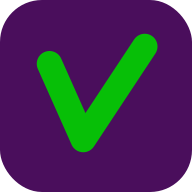
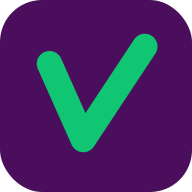
feat: accent #10c673 on vyskar.com and app.vyskar.com
The brand accent changes from #07bf07 to #10c673: theme colors, hover
and border shades, the button glow, and the logo check mark in favicons,
app icons and iOS splash screens (recolored from the original files).

Changed region(s): [[0.1875, 0.1562, 0.8438, 0.8125]]

diff --git a/frontend/src/index.css b/frontend/src/index.css
@@ -14,10 +14,10 @@
   --color-dim: #9e9bc4;
 
   /* Brand: green accent, same as the landing page. */
-  --color-accent: #07bf07; /* 6.39:1 on page, 7.15:1 on card */
-  --color-accent-hover: #2fd22f; /* button text on it 8.76:1 */
-  --color-on-accent: #2a0835; /* dark purple text on green, 7.15:1; white on green fails (2.48:1) */
-  --color-plum: #4a0e5c; /* surface only; white 13.92:1, green 5.61:1 on it */
+  --color-accent: #10c673; /* 7.06:1 on page, 7.89:1 on card */
+  --color-accent-hover: #34d68a; /* button text on it 9.4:1 */
+  --color-on-accent: #2a0835; /* dark purple text on green, 7.89:1; white on green fails (2.25:1) */
+  --color-plum: #4a0e5c; /* surface only; white 13.92:1, green 6.2:1 on it */
 
   --font-display: "Unbounded", sans-serif;
   --font-sans: "DM Sans", system-ui, sans-serif;
@@ -67,17 +67,17 @@ a:hover {
 
 @keyframes vy-lift {
   0% {
-    box-shadow: 0 0 0 0 rgba(7, 191, 7, 0), 0 0 0 0 rgba(0, 0, 0, 0), 0 0 0 0 rgba(0, 0, 0, 0);
+    box-shadow: 0 0 0 0 rgba(16, 198, 115, 0), 0 0 0 0 rgba(0, 0, 0, 0), 0 0 0 0 rgba(0, 0, 0, 0);
     transform: scale(1);
   }
   15%,
   60% {
-    box-shadow: 0 0 22px 2px rgba(7, 191, 7, 0.28), 0 0 60px 6px rgba(0, 0, 0, 0.7),
+    box-shadow: 0 0 22px 2px rgba(16, 198, 115, 0.28), 0 0 60px 6px rgba(0, 0, 0, 0.7),
       0 0 18px 2px rgba(0, 0, 0, 0.5);
     transform: scale(1.035);
   }
   100% {
-    box-shadow: 0 0 0 0 rgba(7, 191, 7, 0), 0 0 0 0 rgba(0, 0, 0, 0), 0 0 0 0 rgba(0, 0, 0, 0);
+    box-shadow: 0 0 0 0 rgba(16, 198, 115, 0), 0 0 0 0 rgba(0, 0, 0, 0), 0 0 0 0 rgba(0, 0, 0, 0);
     transform: scale(1);
   }
 }

diff --git a/landing/src/index.css b/landing/src/index.css
@@ -13,11 +13,11 @@
   --color-muted: #b4b1d6;
   --color-dim: #9e9bc4;
   /* Brand: green accent, plum surface. Contrast checked against ink, card and plum. */
-  --color-accent: #07bf07; /* 6.39:1 on page, 7.15:1 on card, 4.71:1 on the closing plum */
-  --color-accent-hover: #2fd22f; /* button text on it 8.76:1 */
-  --color-accent-deep: #069a06; /* run card border, 4.75:1 on card */
-  --color-on-accent: #2a0835; /* dark purple text on green, 7.15:1; white on green fails (2.48:1) */
-  --color-plum: #5c1373; /* closing section; fg 10.28:1, green 4.71:1 */
+  --color-accent: #10c673; /* 7.06:1 on page, 7.89:1 on card, 5.21:1 on the closing plum */
+  --color-accent-hover: #34d68a; /* button text on it 9.4:1 */
+  --color-accent-deep: #0ca05d; /* run card border, 5.24:1 on card */
+  --color-on-accent: #2a0835; /* dark purple text on green, 7.89:1; white on green fails (2.25:1) */
+  --color-plum: #5c1373; /* closing section; fg 10.28:1, green 5.21:1 */
 
   --font-display: "Unbounded", sans-serif;
   --font-sans: "DM Sans", system-ui, sans-serif;

diff --git a/frontend/index.html b/frontend/index.html
@@ -62,7 +62,7 @@
   </head>
   <body>
     <div id="splash" aria-hidden="true">
-      <svg viewBox="98 90 322 316" fill="none"><polyline points="132,170 222,372 386,124" stroke="#07BF07" stroke-width="68" stroke-linecap="round" stroke-linejoin="round" fill="none"/></svg>
+      <svg viewBox="98 90 322 316" fill="none"><polyline points="132,170 222,372 386,124" stroke="#10C673" stroke-width="68" stroke-linecap="round" stroke-linejoin="round" fill="none"/></svg>
       <p>Vyskar</p>
     </div>
     <div id="root"></div>

diff --git a/frontend/scripts/splash-screen.html b/frontend/scripts/splash-screen.html
@@ -14,7 +14,7 @@
     </style>
   </head>
   <body>
-    <svg viewBox="98 90 322 316" fill="none" aria-hidden="true"><polyline points="132,170 222,372 386,124" stroke="#07BF07" stroke-width="68" stroke-linecap="round" stroke-linejoin="round" fill="none"/></svg>
+    <svg viewBox="98 90 322 316" fill="none" aria-hidden="true"><polyline points="132,170 222,372 386,124" stroke="#10C673" stroke-width="68" stroke-linecap="round" stroke-linejoin="round" fill="none"/></svg>
     <p>Vyskar</p>
   </body>
 </html>

diff --git a/landing/src/HindiPage.jsx b/landing/src/HindiPage.jsx
@@ -21,7 +21,7 @@ const LOOP = 8000;
 const FINAL = 5000; // the still frame shown when motion is reduced
 
 const C = {
-  accent: "#07bf07",
+  accent: "#10c673",
   fg: "#f1effa",
   muted: "#b4b1d6",
   dim: "#9e9bc4",
